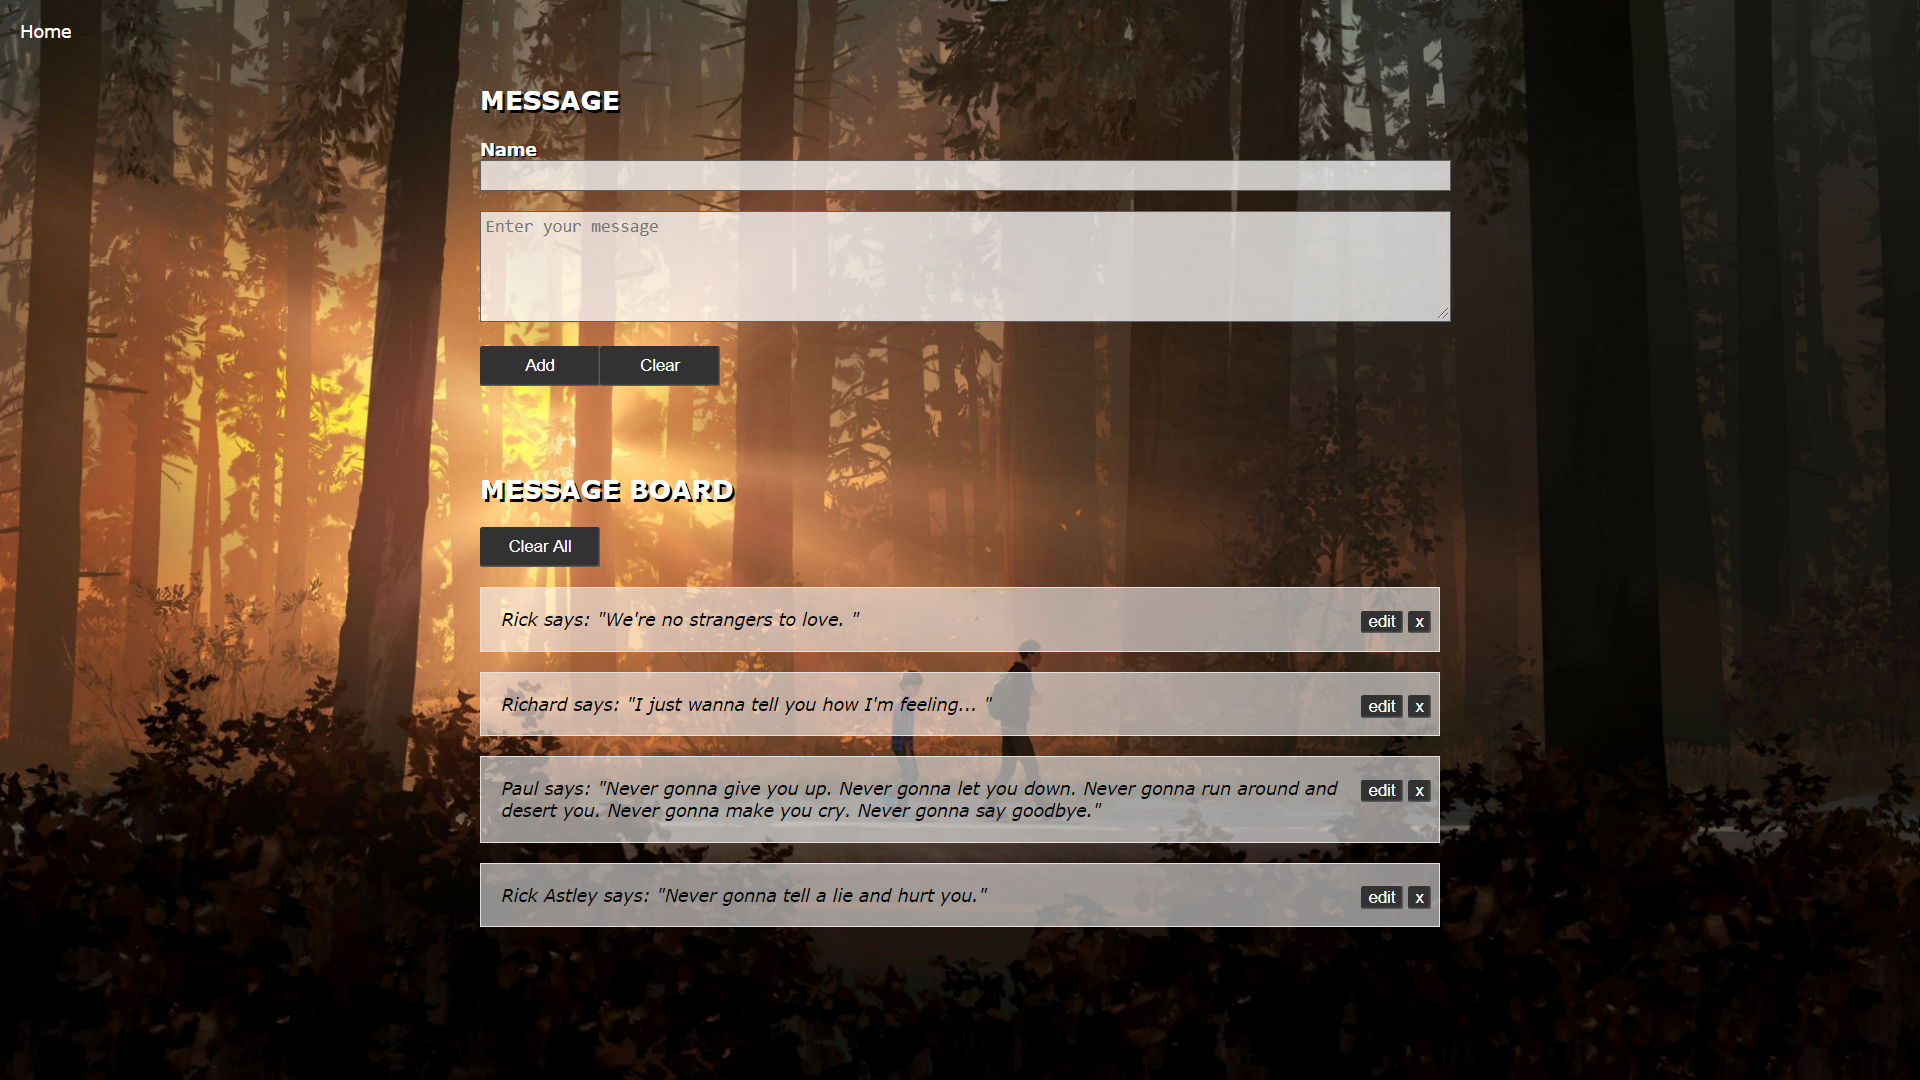
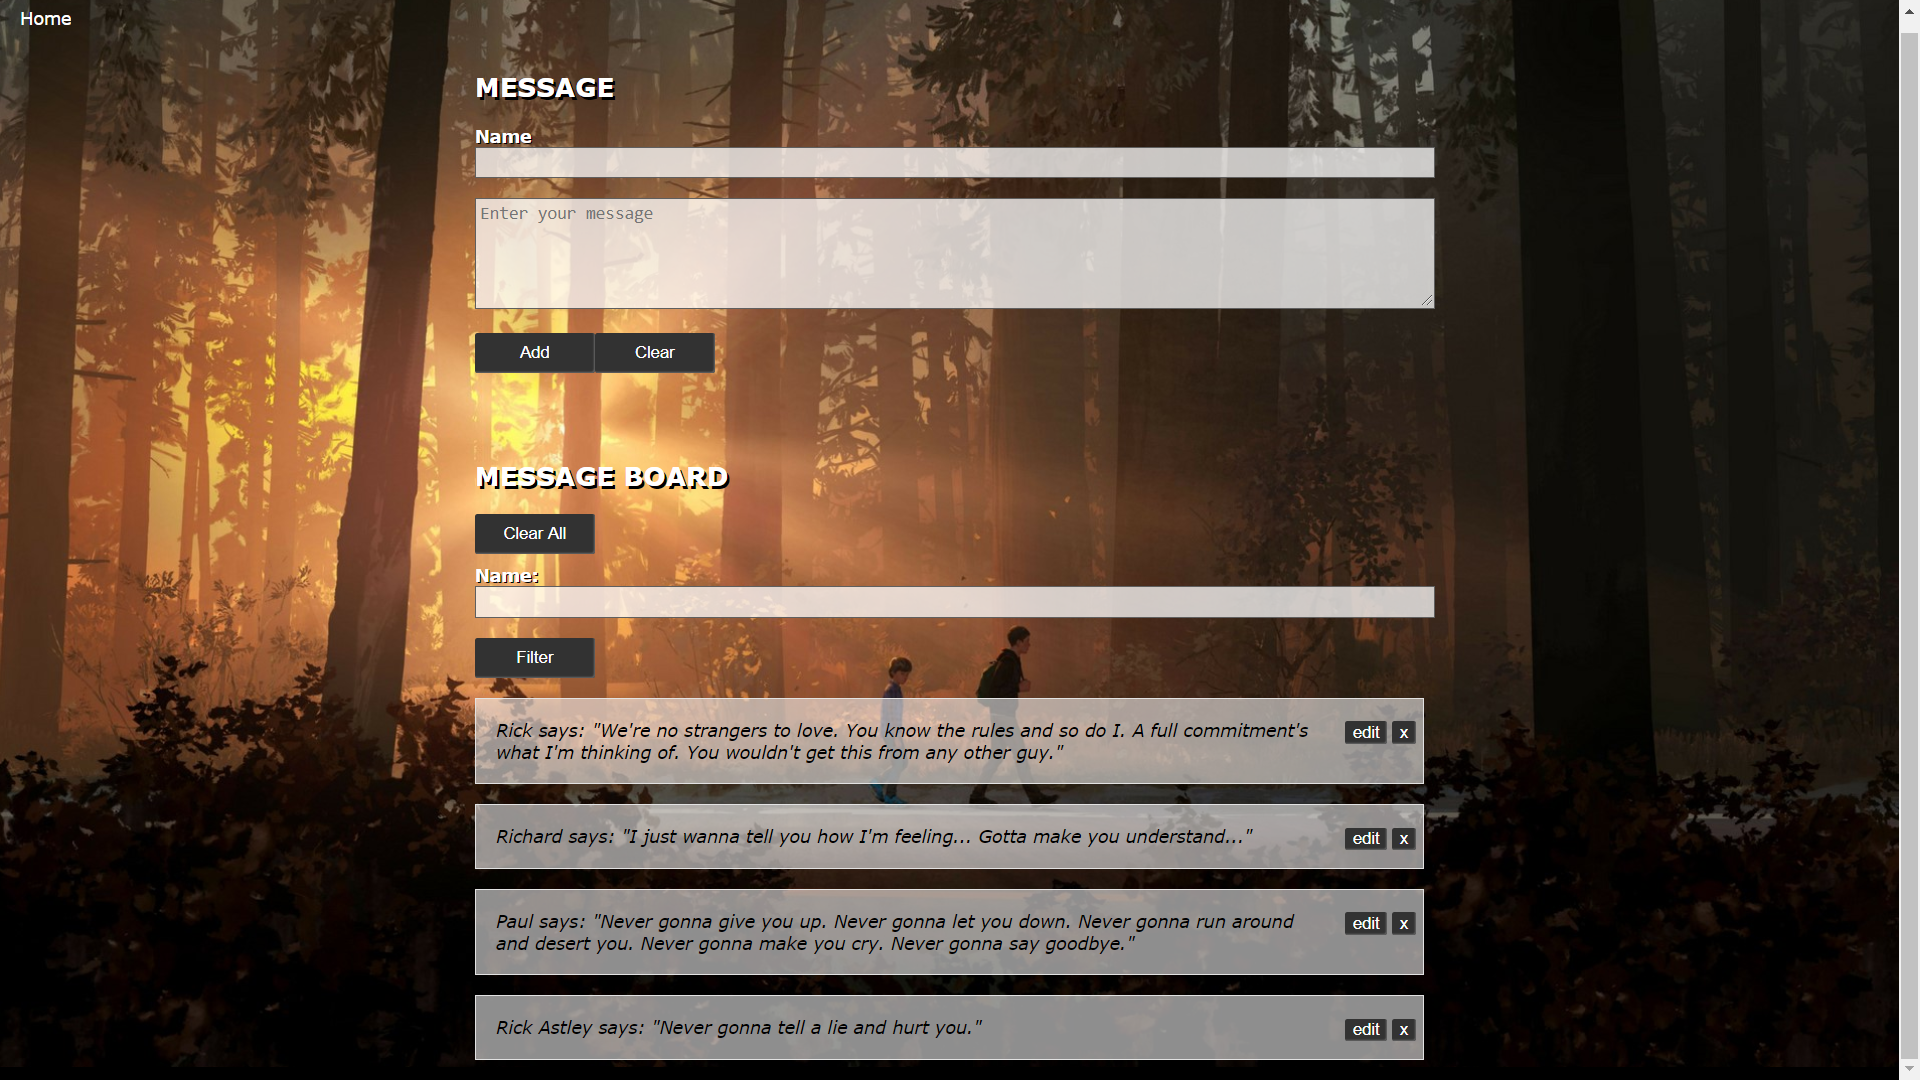
update readme

diff --git a/README.md b/README.md
@@ -8,17 +8,13 @@
 - Message: If a message is clicked, a side bar will appear with message details
 - Edit: Clicking edit button will create a message box to edit the message.
 Click save to update the message and message date. To go back without any changes, click edit again.
+- Filter: Users can filter by name.
 - UPDATE June 18, 2019: Messages are now connected to the server.
+
+![Main](./images/Screenshot-Main.png)
 
 ### How to run the project:
 Run `npm start` from the terminal.
-
-### *Main Page*
-![Main](./images/Screenshot-Main.png)
-### *Main Page (Edit)*
-![Main-Edit](./images/Screenshot-Edit.png)
-### *Main Page (Side Panel)*
-![Main-SidePanel](./images/Screenshot-SidePanel.png)
 
 ### References and Resources:
 How to add Express backend to a React app
@@ -33,6 +29,7 @@ https://mongodb.github.io/node-mongodb-native/3.0/reference/ecmascriptnext/conne
 
 How to Reuse MongoDB Connection:
 https://stackoverflow.com/questions/24621940/how-to-properly-reuse-connection-to-mongodb-across-nodejs-application-and-module
+
 ---
 
 This project was bootstrapped with [Create React App](https://github.com/facebook/create-react-app).
